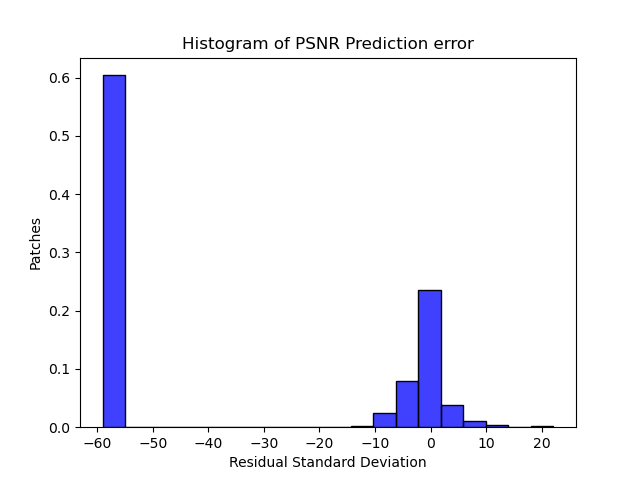
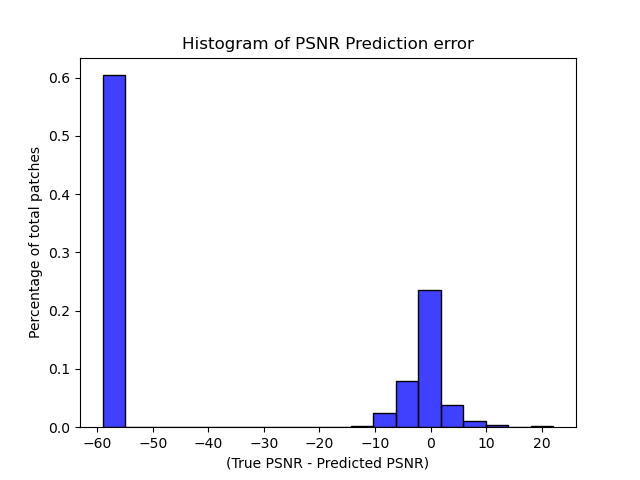
Replacing all of the psnr estimation error histograms (old plots had bad axis labels)

Changed region(s): [[0.3438, 0.9375, 0.6875, 1.0], [0.0312, 0.3125, 0.0625, 0.7188]]

diff --git a/keras_implementation/scripts/utilities/image_utils.py b/keras_implementation/scripts/utilities/image_utils.py
@@ -415,8 +415,8 @@ def plot_psnr_comparisons(psnr_comparisons: List[Tuple[float, float]], plot_type
                      bins=int(20), color='blue')
         # Add labels
         plt.title('Histogram of PSNR Prediction error')
-        plt.xlabel('Residual Standard Deviation')
-        plt.ylabel('Patches')
+        plt.xlabel('(True PSNR - Predicted PSNR)')
+        plt.ylabel('Percentage of total patches')
         # Optionally save the plot
         if save_dir is not None and not os.path.exists(os.path.join(save_dir, f'{test_data_name}test_{reference_data_name}ref_psnr_error_distribution.png')):
             plt.savefig(os.path.join(save_dir, f'{test_data_name}test_{reference_data_name}ref_psnr_error_distribution.png'))
